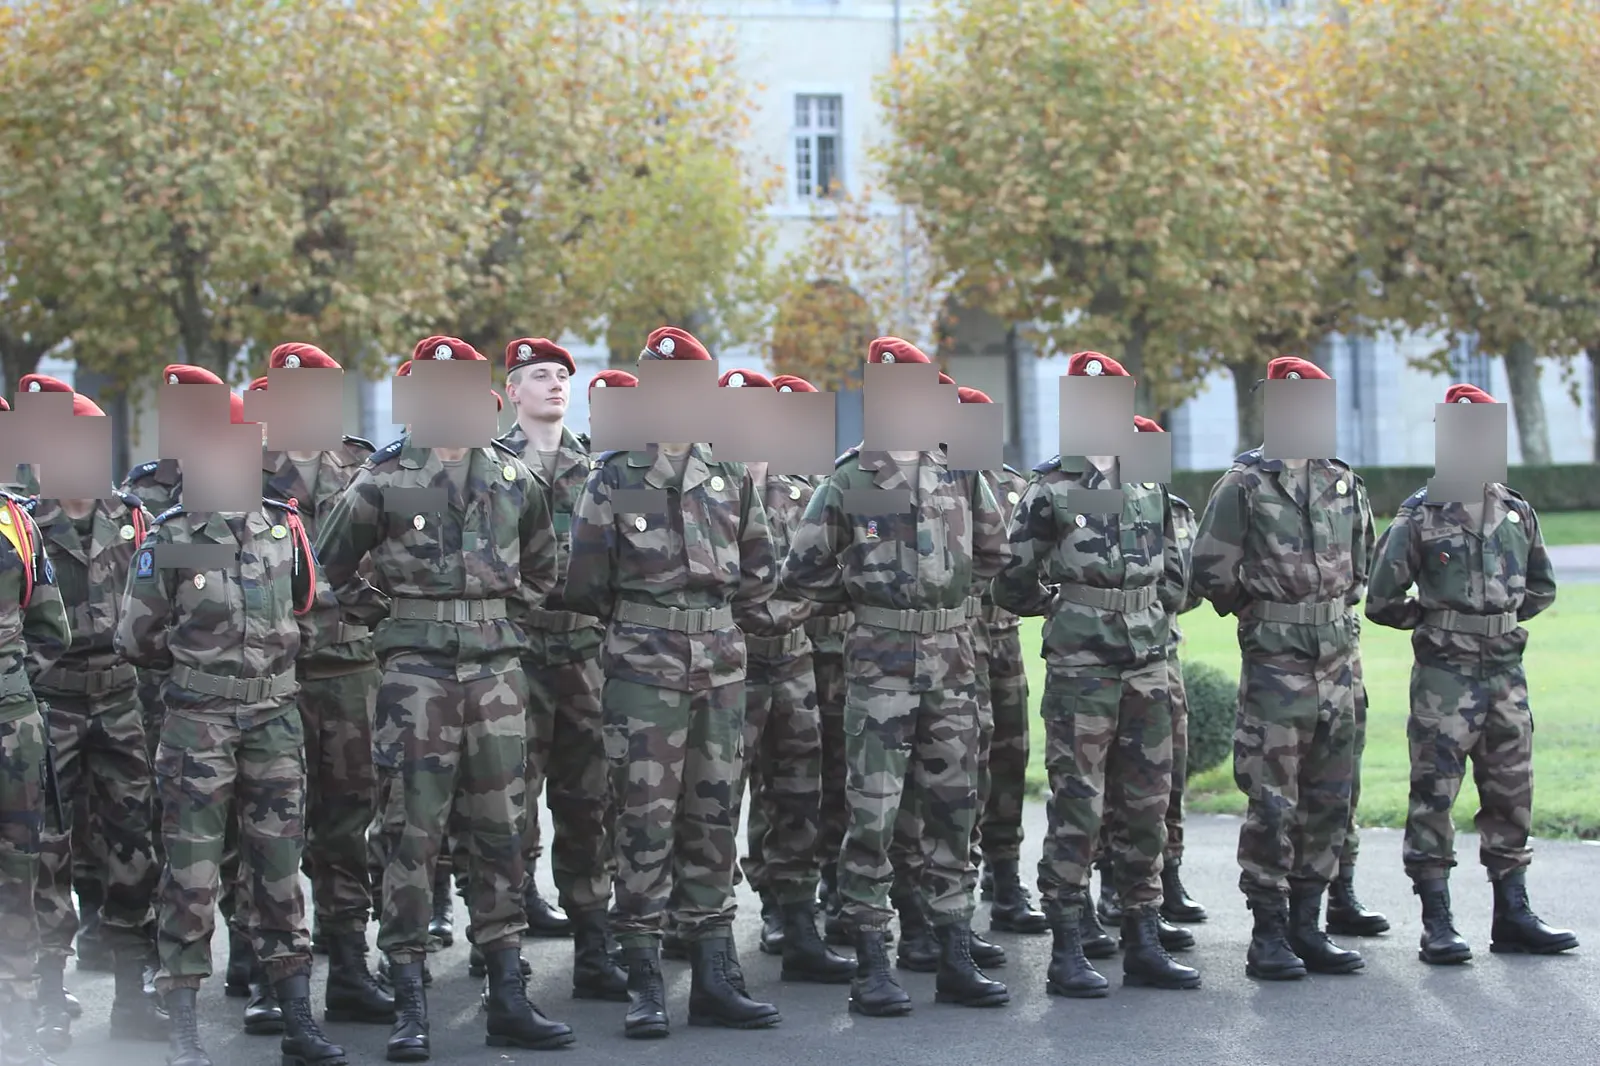
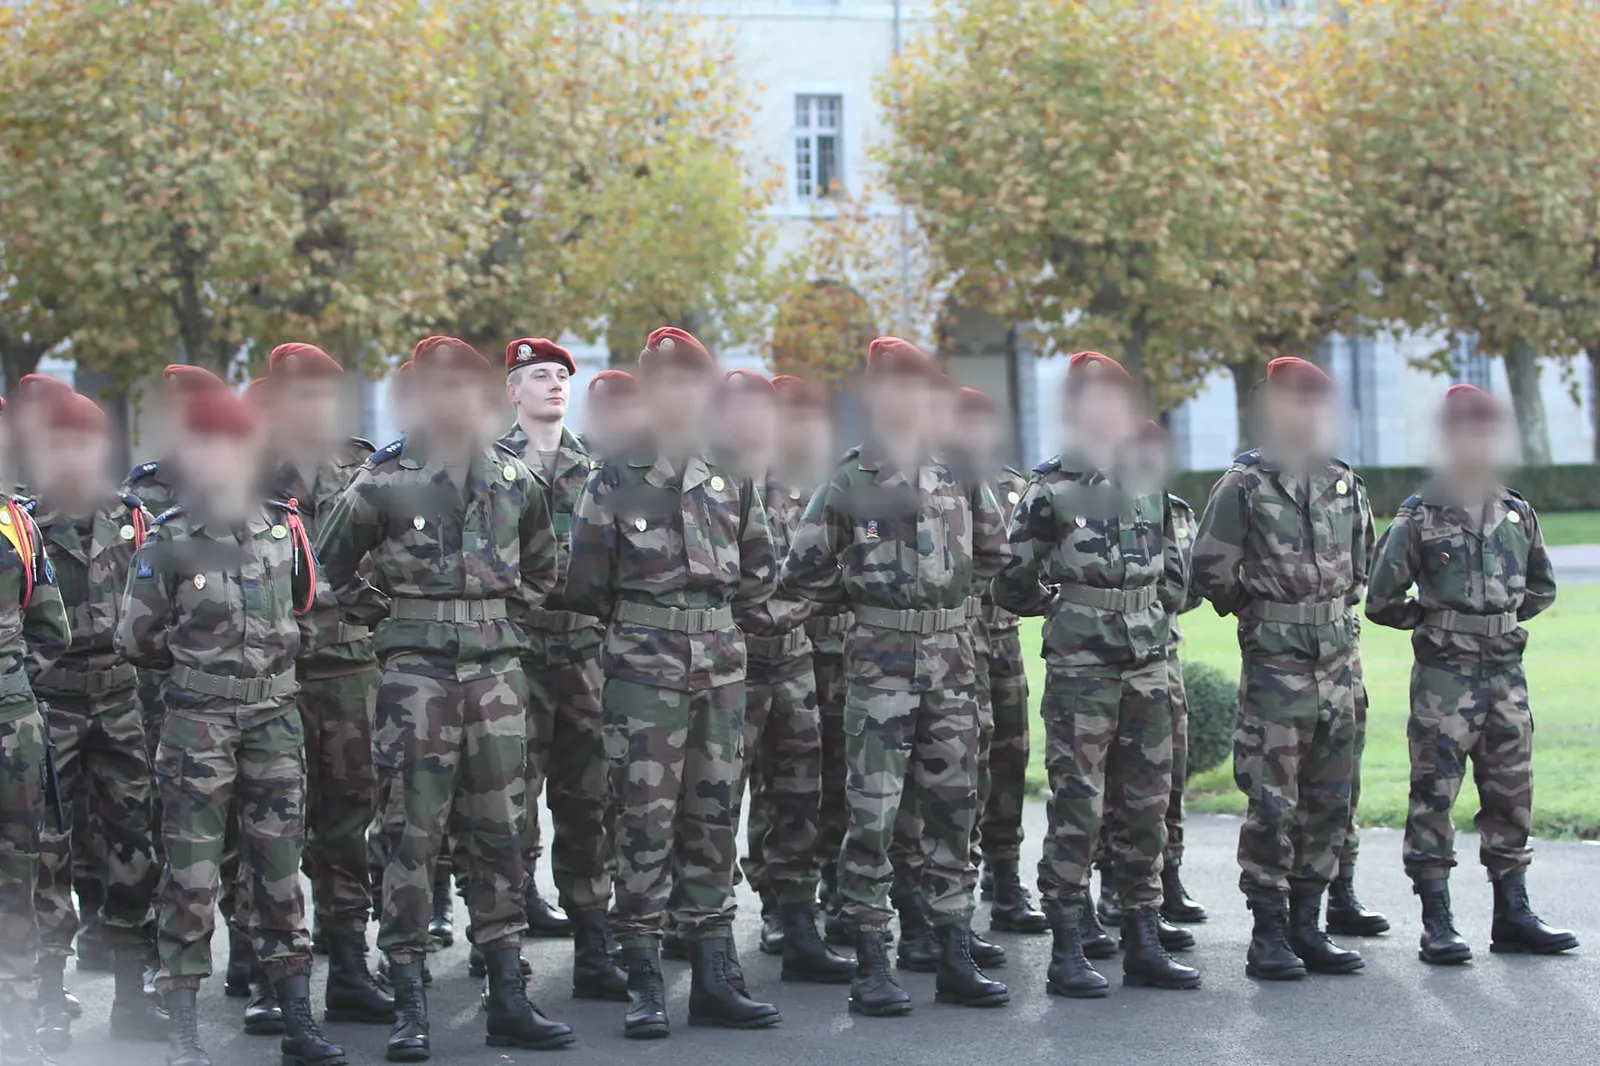
Allow same-origin framing for the Pulse demo; softer face blur on reserve photos

diff --git a/src/data/career.ts b/src/data/career.ts
@@ -11,7 +11,7 @@ export interface Role {
   stack: string[];
   current?: boolean;
   visual?: string; // faint image on the card (official store screenshots, never internal material)
-  photo?: { src: string; caption: string }; // a real photo shown inside the card
+  photo?: { src: string; alt: string }; // a real photo shown inside the card
 }
 
 export const roles: Role[] = [
@@ -104,7 +104,7 @@ export const roles: Role[] = [
     period: 'Oct 2017 – Nov 2022',
     context: 'Five years in an airborne regiment (1st Hussar Parachute Regiment).',
     visual: '/roles/reserve-march.webp',
-    photo: { src: '/roles/reserve-line.webp', caption: 'On parade with the 1er RHP. I am in the second row; the other faces are blurred.' },
+    photo: { src: '/roles/reserve-line.webp', alt: 'Parade with the 1er RHP' },
     highlights: [],
     stack: [],
   },
